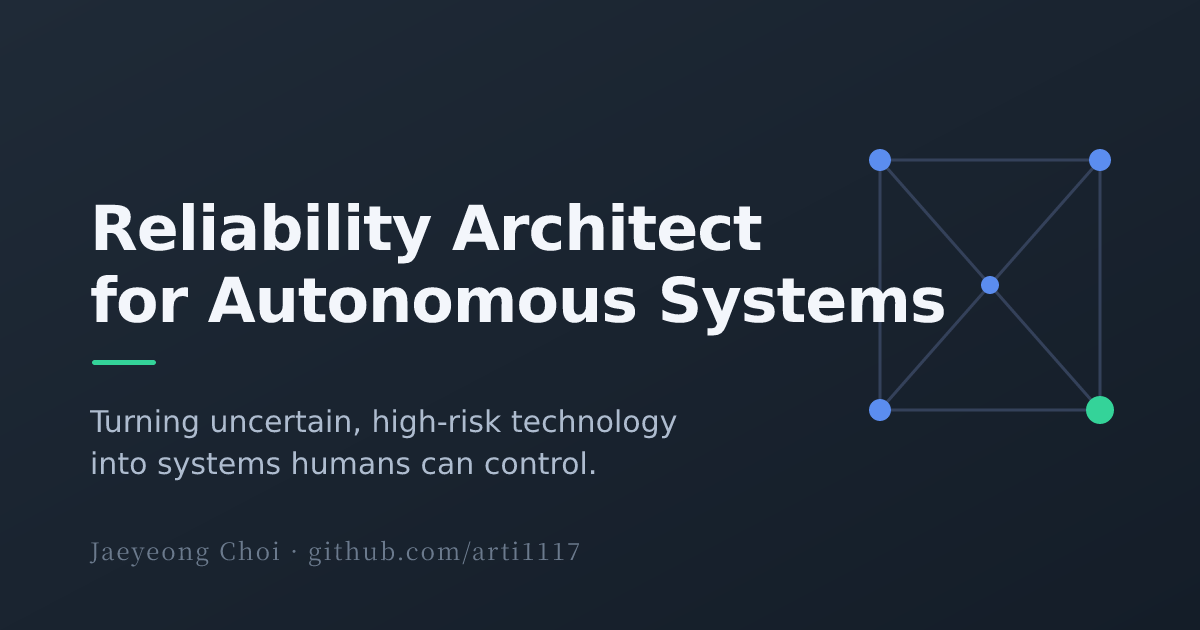
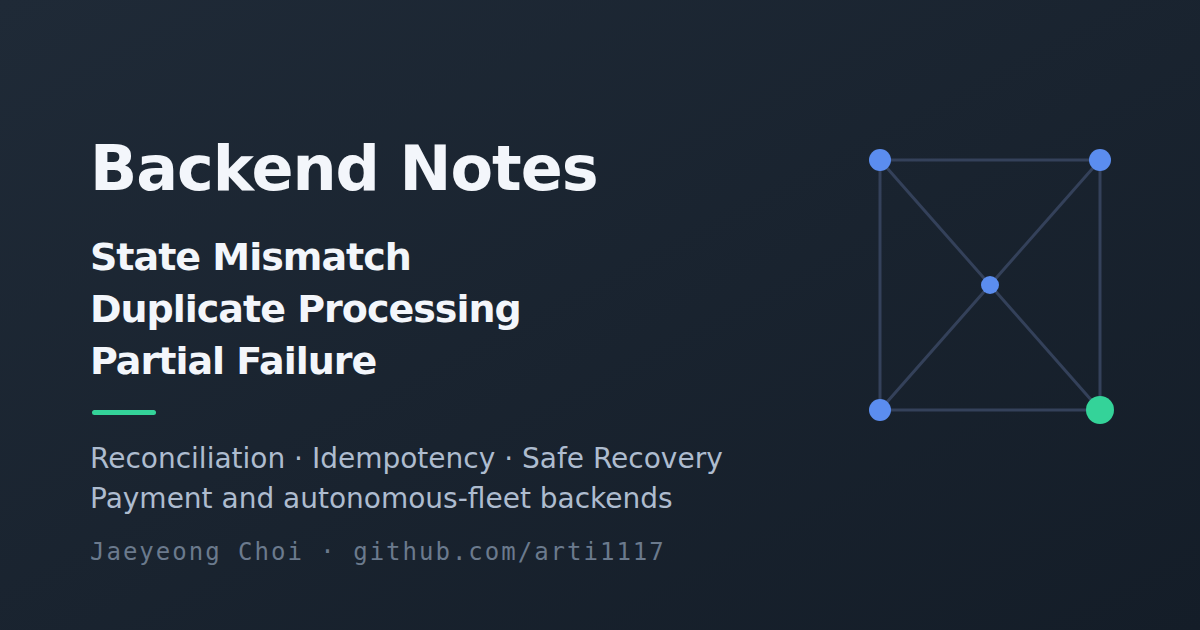
docs(blog): refocus site on backend reliability
Replace the aspirational autonomous-systems title with concrete backend failure modes and update the social preview, project page, and authoring guidance consistently.

Clarify that fleet-master-controller is an AI-implemented learning repository and narrow its published claims to code- and test-backed behavior. Tradeoff: the project presentation is longer and less promotional, but it avoids implying solo authorship or guarantees beyond the current implementation.

diff --git a/_tabs/about.md b/_tabs/about.md
@@ -45,7 +45,7 @@ order: 3
 
 ## 링크
 
-- GitHub — [github.com/arti1117](https://github.com/arti1117) — 포트폴리오 · [이력](https://github.com/arti1117/arti1117/blob/main/RESUME.md)
+- GitHub — [github.com/arti1117](https://github.com/arti1117) — 프로필 · [이력](https://github.com/arti1117/arti1117/blob/main/RESUME.md)
 - LinkedIn — [linkedin.com/in/jaeyeong-choi-561058341](https://www.linkedin.com/in/jaeyeong-choi-561058341/)
 - 이 블로그 안에서 — [프로젝트](/projects/)
 
